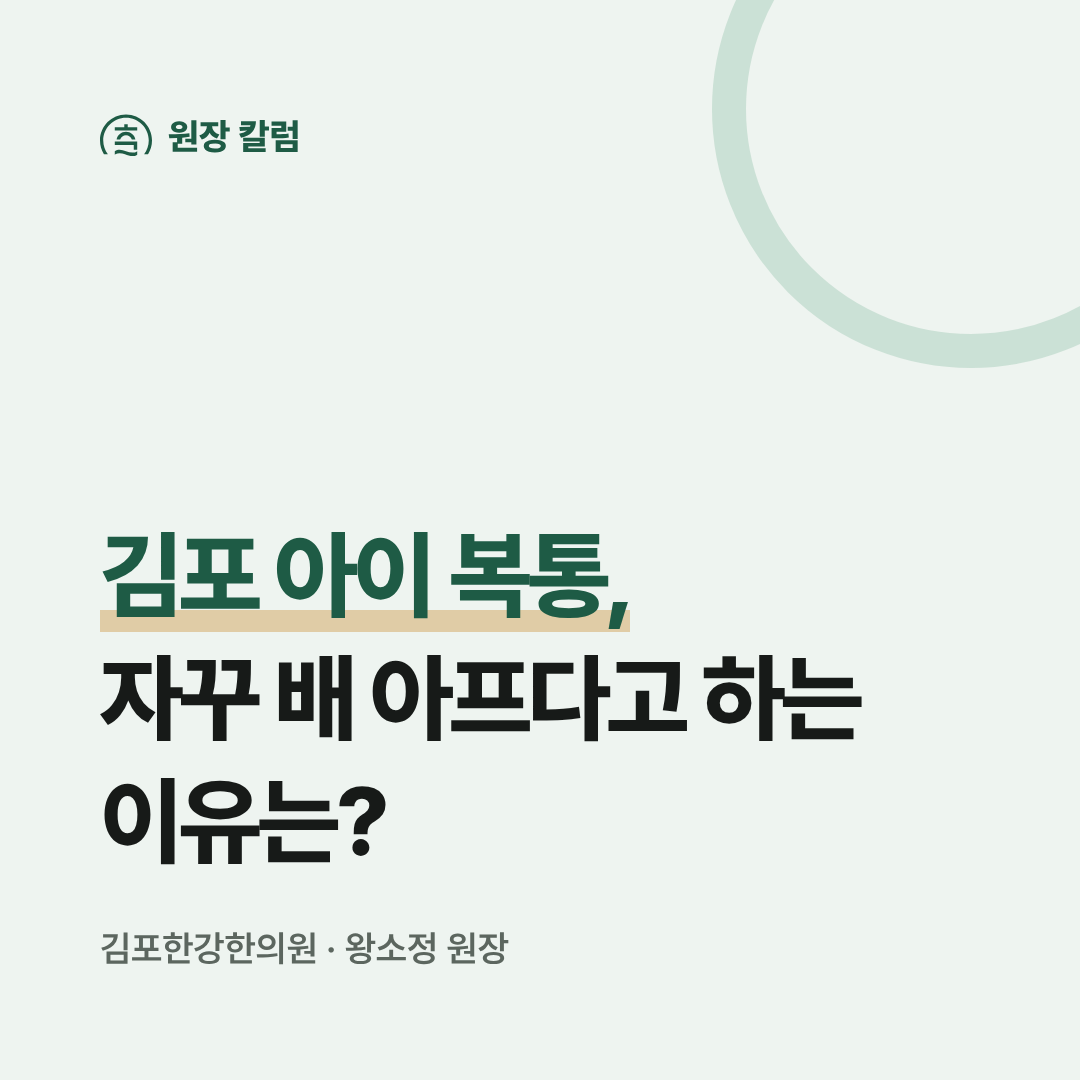
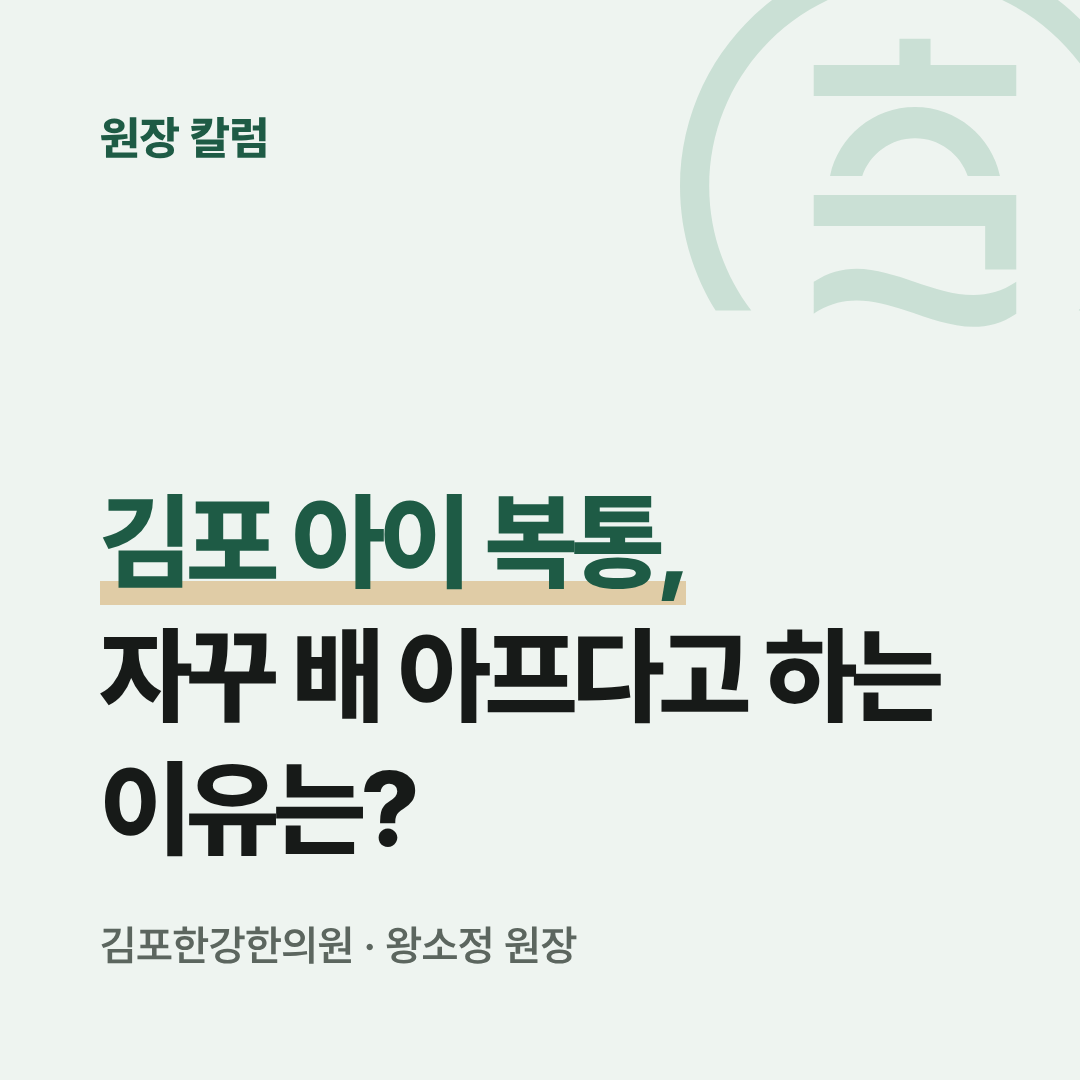
칼럼 썸네일: 오른쪽 위 원을 한의원 로고로, 「원장 칼럼」 옆 로고는 빼고 글씨를 키움
원장님 요청. 홈페이지 카드와 블로그 대표 이미지를 같이 고쳤다.

Claude-Session: https://claude.ai/code/session_014or5Dz3U5r2jvhdybgFjdp

diff --git a/src/components/column-thumb.tsx b/src/components/column-thumb.tsx
@@ -34,16 +34,14 @@ export function ColumnThumb({
     >
       {/* cqw 는 컨테이너의 내용 폭을 잰다. 바깥에 패딩을 주면 그만큼 글자가
           작아지므로, 패딩은 안쪽 판에 둔다 */}
-      <div className="absolute inset-0 flex flex-col p-[7cqw]">
-        <span className="pointer-events-none absolute -right-[14cqw] -top-[14cqw] h-[42cqw] w-[42cqw] rounded-full border-[3.2cqw] border-herb-line/70" />
-        <span className="relative flex items-center gap-[1.6cqw] text-[3.6cqw] font-bold text-herb">
-          <LogoMark className="h-[5cqw] w-[5cqw]" />
-          원장 칼럼
-        </span>
-        <p className="kr relative mt-auto text-[7.2cqw] font-extrabold leading-[1.3] tracking-[-0.04em] text-ink">
+      <div className="absolute inset-0 flex flex-col p-[6.5cqw]">
+        {/* 오른쪽 위에 한의원 로고를 크게, 옅게 깐다 */}
+        <LogoMark className="pointer-events-none absolute -right-[7cqw] -top-[9cqw] h-[44cqw] w-[44cqw] text-herb-line/70" />
+        <span className="relative text-[4.4cqw] font-bold text-herb">원장 칼럼</span>
+        <p className="kr relative mt-auto text-[8cqw] font-extrabold leading-[1.28] tracking-[-0.04em] text-ink">
           {lead && (
             <>
-              <span className="text-herb [box-shadow:inset_0_-1.6cqw_0_var(--ochre-line)]">
+              <span className="text-herb [box-shadow:inset_0_-1.8cqw_0_var(--ochre-line)]">
                 {lead}
               </span>
               <br />
@@ -52,7 +50,7 @@ export function ColumnThumb({
           {rest}
         </p>
         {author && (
-          <span className="relative mt-[3cqw] text-[3.4cqw] font-semibold text-muted">
+          <span className="relative mt-[2.6cqw] text-[4cqw] font-semibold text-muted">
             {author.name} {author.role}
           </span>
         )}
